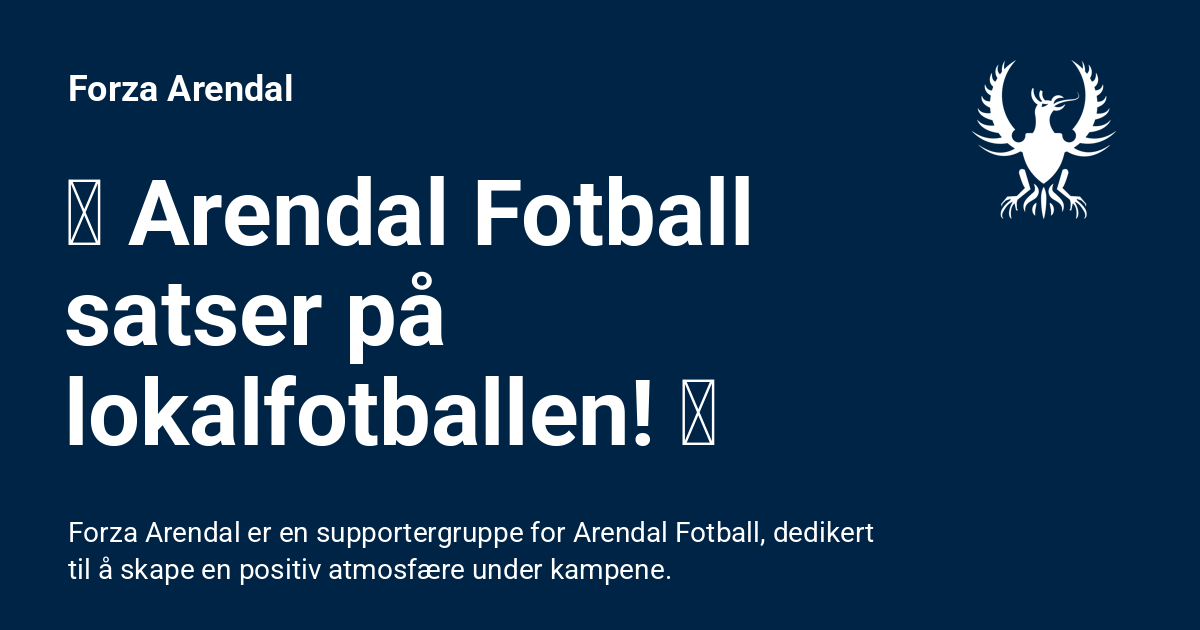
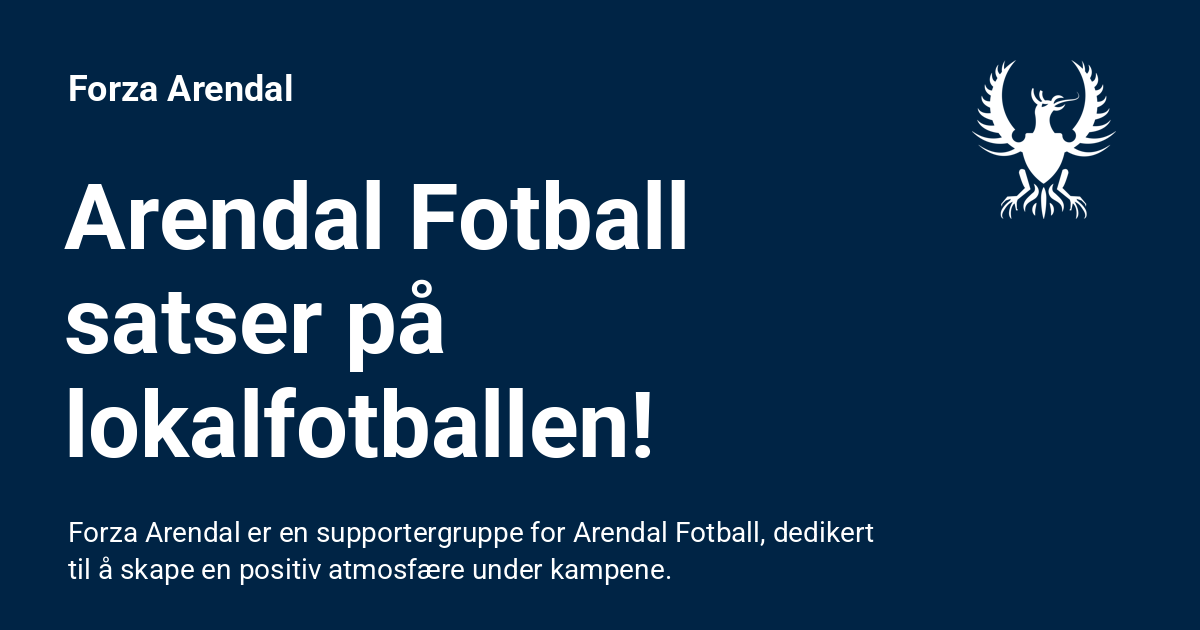
Deployed dc2c576 with MkDocs version: 1.6.1

Changed region(s): [[0.0308, 0.4222, 0.6167, 0.7238], [0.0308, 0.2714, 0.6475, 0.3921]]

diff --git a/blog/2025/06/01/arendal-fotball-satser-på-lokalfotballen/index.html b/blog/2025/06/01/arendal-fotball-satser-på-lokalfotballen/index.html
@@ -10,7 +10,7 @@
       
       
       
-        <link rel="canonical" href="https://forza-arendal.no/blog/2025/06/01/-arendal-fotball-satser-p%C3%A5-lokalfotballen-/">
+        <link rel="canonical" href="https://forza-arendal.no/blog/2025/06/01/arendal-fotball-satser-p%C3%A5-lokalfotballen/">
       
       
         <link rel="prev" href="../../../05/26/oppsummering-runde-7/">
@@ -22,7 +22,7 @@
     
     
       
-        <title>🔥 Arendal Fotball satser på lokalfotballen! 🔥 - Forza Arendal</title>
+        <title>Arendal Fotball satser på lokalfotballen! - Forza Arendal</title>
       
     
     
@@ -69,7 +69,7 @@
       
         <meta  property="og:type"  content="website" >
       
-        <meta  property="og:title"  content="🔥 Arendal Fotball satser på lokalfotballen! 🔥 - Forza Arendal" >
+        <meta  property="og:title"  content="Arendal Fotball satser på lokalfotballen! - Forza Arendal" >
       
         <meta  property="og:description"  content="Forza Arendal er en supportergruppe for Arendal Fotball, dedikert til å skape en positiv atmosfære under kampene." >
       
@@ -81,11 +81,11 @@
       
         <meta  property="og:image:height"  content="630" >
       
-        <meta  property="og:url"  content="https://forza-arendal.no/blog/2025/06/01/-arendal-fotball-satser-p%C3%A5-lokalfotballen-/" >
+        <meta  property="og:url"  content="https://forza-arendal.no/blog/2025/06/01/arendal-fotball-satser-p%C3%A5-lokalfotballen/" >
       
         <meta  name="twitter:card"  content="summary_large_image" >
       
-        <meta  name="twitter:title"  content="🔥 Arendal Fotball satser på lokalfotballen! 🔥 - Forza Arendal" >
+        <meta  name="twitter:title"  content="Arendal Fotball satser på lokalfotballen! - Forza Arendal" >
       
         <meta  name="twitter:description"  content="Forza Arendal er en supportergruppe for Arendal Fotball, dedikert til å skape en positiv atmosfære under kampene." >
       
@@ -145,7 +145,7 @@
         <div class="md-header__topic" data-md-component="header-topic">
           <span class="md-ellipsis">
             
-              🔥 Arendal Fotball satser på lokalfotballen! 🔥
+              Arendal Fotball satser på lokalfotballen!
             
           </span>
         </div>
@@ -766,7 +766,7 @@
   
 
 
-<h1 id="arendal-fotball-satser-pa-lokalfotballen">🔥 Arendal Fotball satser på lokalfotballen! 🔥<a class="headerlink" href="#arendal-fotball-satser-pa-lokalfotballen" title="Anchor link to this section for reference">&para;</a></h1>
+<h1 id="arendal-fotball-satser-pa-lokalfotballen">Arendal Fotball satser på lokalfotballen!<a class="headerlink" href="#arendal-fotball-satser-pa-lokalfotballen" title="Anchor link to this section for reference">&para;</a></h1>
 <p>Arendal Fotball ønsker å knytte sterkere bånd til klubbene i nærområdet – og det gjør de ved å dedikere flere hjemmekamper til lokale breddeklubber! ⚽👏</p>
 <p>Som trener for Myra Gutter 12 (2013-kullet) er jeg utrolig stolt over at vårt lag skal være ballhentere når Arendal møter Vard Haugesund fredag 13. september 🗓</p>
 <p>Så må også nevne at Myra G13 (2012-kullet) i går vant A sluttspillet i Nørhalne Cup i Danmark mot Lyn Elite 😍💚</p>

diff --git a/blog/archive/2025/index.html b/blog/archive/2025/index.html
@@ -714,7 +714,7 @@
     </div>
   </header>
   <div class="md-post__content md-typeset">
-    <h2 id="arendal-fotball-satser-pa-lokalfotballen"><a class="toclink" href="../../2025/06/01/-arendal-fotball-satser-p%C3%A5-lokalfotballen-/">🔥 Arendal Fotball satser på lokalfotballen! 🔥</a></h2>
+    <h2 id="arendal-fotball-satser-pa-lokalfotballen"><a class="toclink" href="../../2025/06/01/arendal-fotball-satser-p%C3%A5-lokalfotballen/">Arendal Fotball satser på lokalfotballen!</a></h2>
 <p>Arendal Fotball ønsker å knytte sterkere bånd til klubbene i nærområdet – og det gjør de ved å dedikere flere hjemmekamper til lokale breddeklubber! ⚽👏</p>
 <p>Som trener for Myra Gutter 12 (2013-kullet) er jeg utrolig stolt over at vårt lag skal være ballhentere når Arendal møter Vard Haugesund fredag 13. september 🗓</p>
 <p>Så må også nevne at Myra G13 (2012-kullet) i går vant A sluttspillet i Nørhalne Cup i Danmark mot Lyn Elite 😍💚</p>

diff --git a/blog/index.html b/blog/index.html
@@ -703,7 +703,7 @@
     </div>
   </header>
   <div class="md-post__content md-typeset">
-    <h2 id="arendal-fotball-satser-pa-lokalfotballen"><a class="toclink" href="2025/06/01/-arendal-fotball-satser-p%C3%A5-lokalfotballen-/">🔥 Arendal Fotball satser på lokalfotballen! 🔥</a></h2>
+    <h2 id="arendal-fotball-satser-pa-lokalfotballen"><a class="toclink" href="2025/06/01/arendal-fotball-satser-p%C3%A5-lokalfotballen/">Arendal Fotball satser på lokalfotballen!</a></h2>
 <p>Arendal Fotball ønsker å knytte sterkere bånd til klubbene i nærområdet – og det gjør de ved å dedikere flere hjemmekamper til lokale breddeklubber! ⚽👏</p>
 <p>Som trener for Myra Gutter 12 (2013-kullet) er jeg utrolig stolt over at vårt lag skal være ballhentere når Arendal møter Vard Haugesund fredag 13. september 🗓</p>
 <p>Så må også nevne at Myra G13 (2012-kullet) i går vant A sluttspillet i Nørhalne Cup i Danmark mot Lyn Elite 😍💚</p>

diff --git a/blog/2025/05/26/oppsummering-runde-7/index.html b/blog/2025/05/26/oppsummering-runde-7/index.html
@@ -16,7 +16,7 @@
         <link rel="prev" href="../../25/status-og-veien-mot-opprykk-2025/">
       
       
-        <link rel="next" href="../../../06/01/-arendal-fotball-satser-p%C3%A5-lokalfotballen-/">
+        <link rel="next" href="../../../06/01/arendal-fotball-satser-p%C3%A5-lokalfotballen/">
       
       
       <link rel="icon" href="../../../../../assets/images/logo/favicon.ico">
